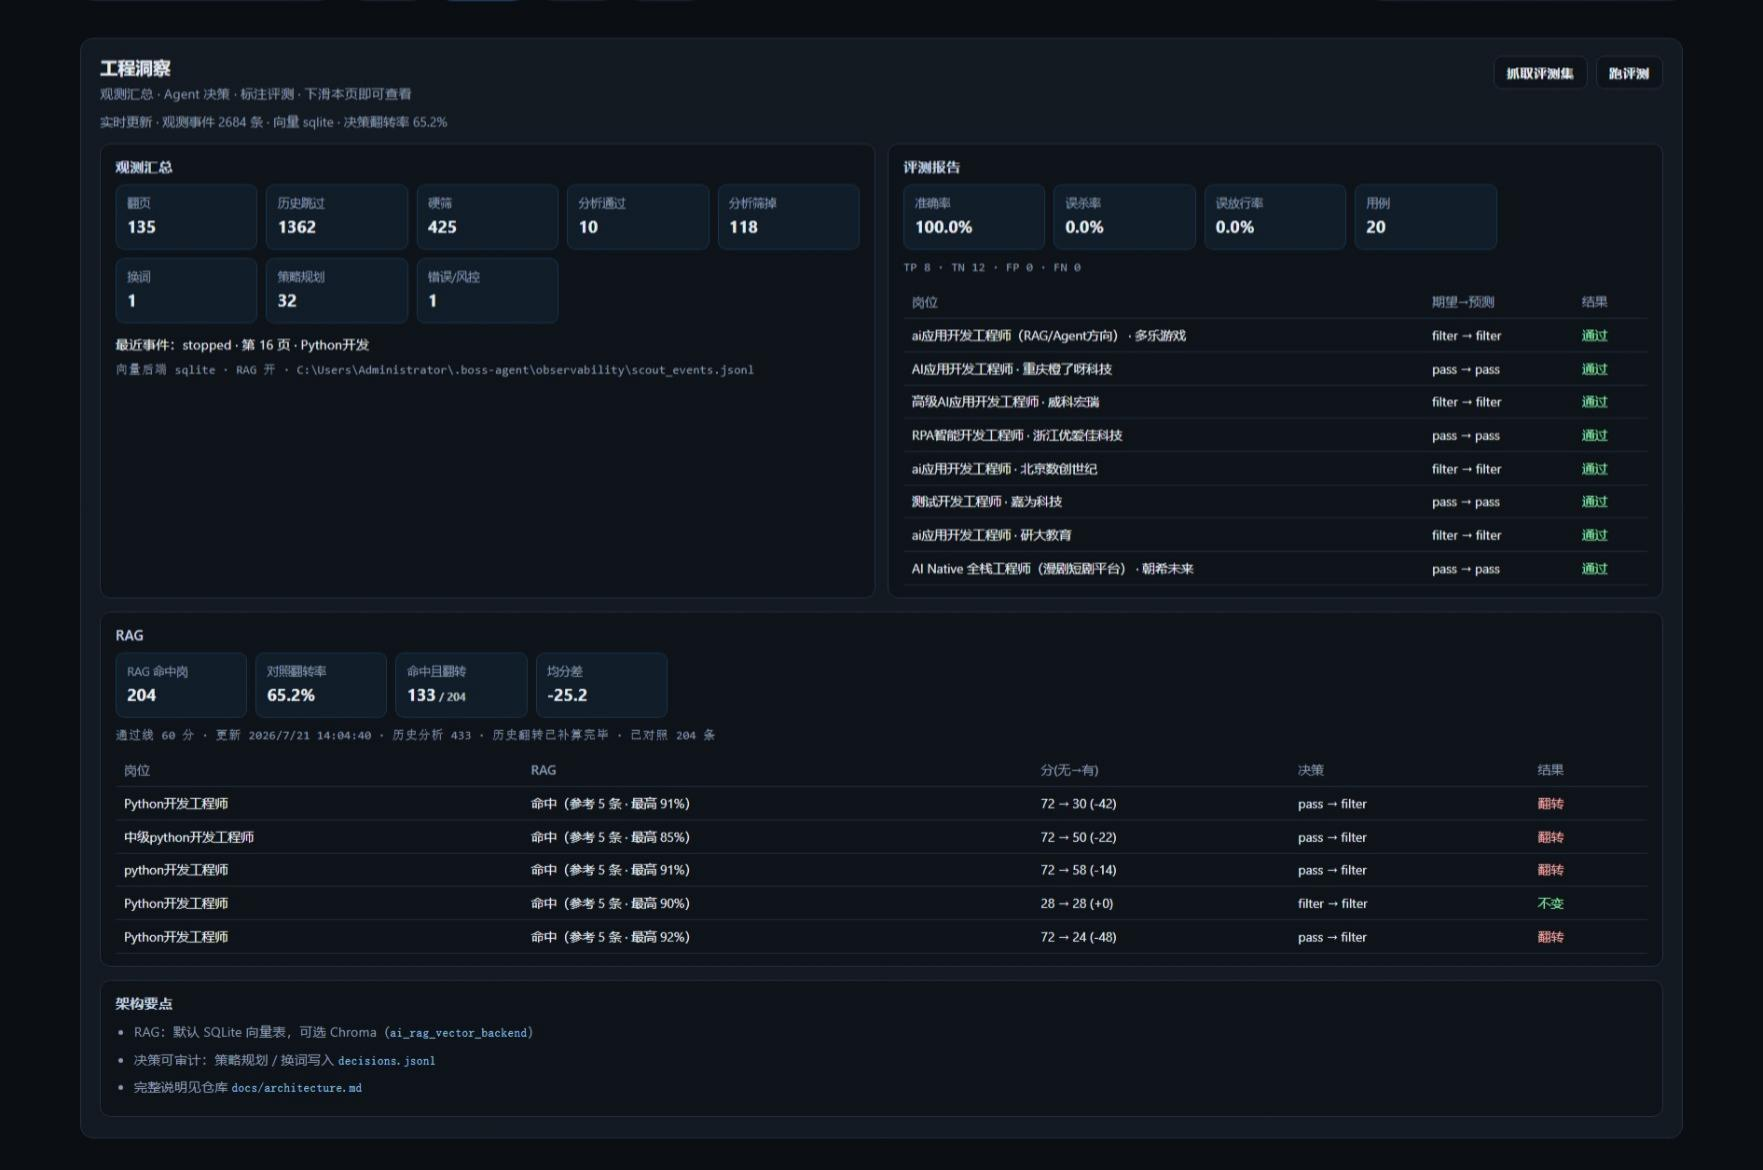
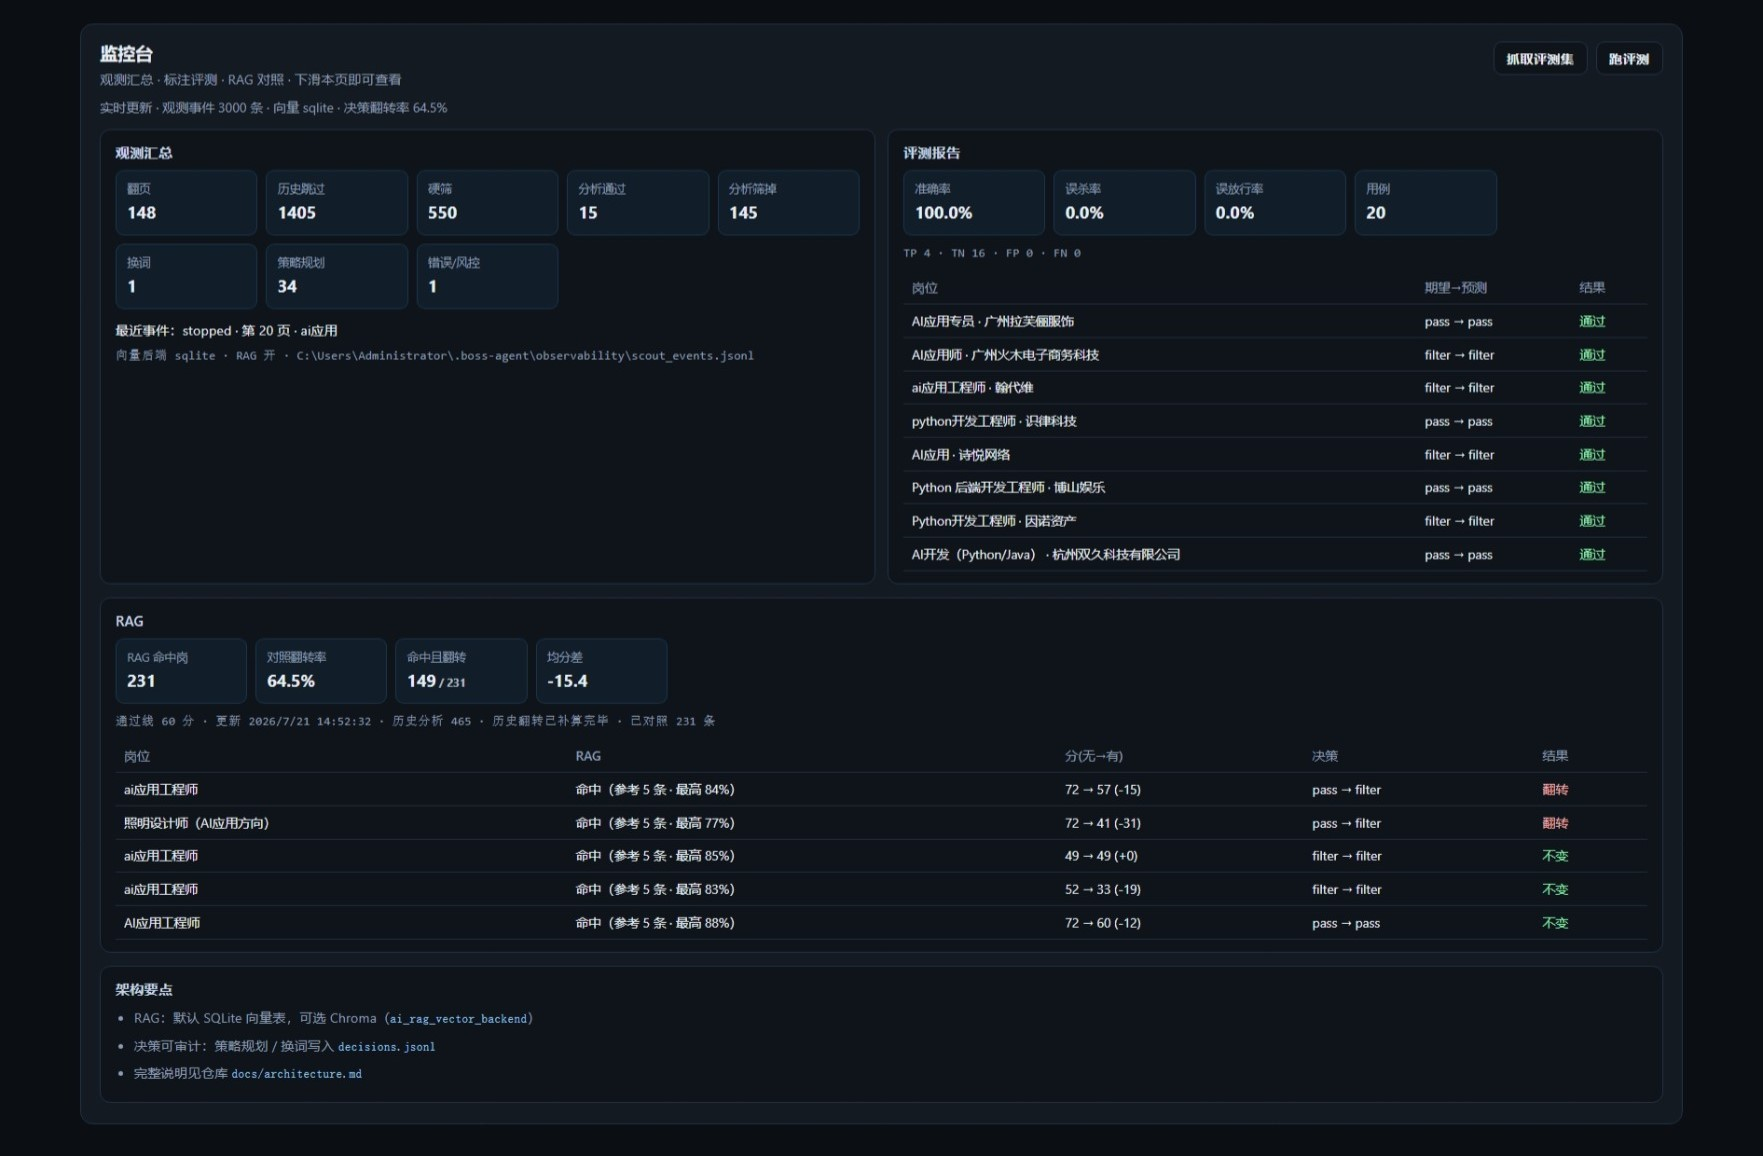
Rename decision monitoring section to monitoring console (监控台).

diff --git a/src/pet_boss/web/static/pet.html b/src/pet_boss/web/static/pet.html
@@ -115,11 +115,11 @@
       </aside>
     </div>
 
-    <section class="pet-insights" id="petInsights" aria-label="决策监控">
+    <section class="pet-insights" id="petInsights" aria-label="监控台">
       <div class="pet-insights-inner">
         <header class="pet-insights-head">
           <div>
-            <h2 class="pet-insights-title">决策监控</h2>
+            <h2 class="pet-insights-title">监控台</h2>
             <p class="pet-insights-sub">观测汇总 · 标注评测 · RAG 对照 · 下滑本页即可查看</p>
           </div>
           <div class="pet-insights-actions">

diff --git a/src/pet_boss/web/static/pet.js b/src/pet_boss/web/static/pet.js
@@ -8138,7 +8138,7 @@ async function refreshPetInsights({ runEval = false, quiet = false } = {}) {
   const evalCard = document.getElementById("petInsightsEvalCard");
   if (runEval && evalBtn) evalBtn.disabled = true;
   if (statusEl && (!quiet || runEval)) {
-    statusEl.textContent = runEval ? "正在跑评测…" : "加载决策监控…";
+    statusEl.textContent = runEval ? "正在跑评测…" : "加载监控台…";
   }
   const run = (async () => {
     try {
@@ -8154,7 +8154,7 @@ async function refreshPetInsights({ runEval = false, quiet = false } = {}) {
         `/api/boss/insights?eval=${runEval ? "0" : "1"}&t=${Date.now()}`,
         { cache: "no-store" },
       );
-      const data = await parsePetApiResponse(resp, "无法加载决策监控");
+      const data = await parsePetApiResponse(resp, "无法加载监控台");
       renderInsightsMetrics(data);
       if (!runEval && data.eval) renderInsightsEval(data.eval);
       renderInsightsRagAblation(data.rag_ablation);

diff --git a/src/pet_boss/eval/runner.py b/src/pet_boss/eval/runner.py
@@ -37,7 +37,7 @@ def run_eval_report(path: Path) -> dict[str, Any]:
 	p = Path(path)
 	if not p.exists():
 		raise FileNotFoundError(
-			f"标注集不存在: {p}\n请先在决策监控点「抓取评测集」，或执行 boss eval --capture"
+			f"标注集不存在: {p}\n请先在监控台点「抓取评测集」，或执行 boss eval --capture"
 		)
 	bundle = load_label_cases(p)
 	pass_score = float(bundle.get("pass_score") or 60)

diff --git a/README.md b/README.md
@@ -13,11 +13,6 @@
 
 ## 演示
 
-
-### 决策监控
-
-![决策监控](docs/media/demo-insights.png)
-
 ### 登录
 
 ![登录演示](docs/media/demo-login.gif)
@@ -35,6 +30,11 @@
 ![RAG 演示](docs/media/demo-reject.gif)
 
 
+### 监控台
+
+![监控台](docs/media/demo-insights.png)
+
+
 ---
 
 ## 项目概览
@@ -50,7 +50,7 @@
 | **分析 AI** | 对候选岗打分（可参考向量 RAG）；通过分可调；结果进岗位栏与资料柜 |
 | **监控 AI** | BOSS 登录 / Token；浏览器异常时可重启自动化窗口 |
 | **秘书 AI** | 简历解析、画像、日报 / 精选、邮箱 |
-| **决策监控** | 页底观测汇总 / 评测 / RAG ；可抓取评测集 |
+| **监控台** | 页底观测汇总 / 评测 / RAG ；可抓取评测集 |
 | **工作时间表** | 按时段自动开搜 / 下班暂停 |
 | **CLI** | 登录、状态、城市、自检、观测、评测等，与 Web 共用登录态 |
 
@@ -115,7 +115,7 @@ boss profile web
 3. **侦察 AI**：选省 → 市（→ 区），保存筛选条件  
 4. 顶部栏：**开始搜岗**（或等待工作时段自动启动）  
 5. 右侧栏查看 **分析通过** 的岗位；资料柜可回看历史通过 / 精选 / 候选池  
-6. 页面向下滚到 **决策监控**：观测汇总、抓取/跑评测、RAG   
+6. 页面向下滚到 **监控台**：观测汇总、抓取/跑评测、RAG   
 
 改完 `pet.js` / `pet.css` 后刷新即可（`/pet` 按文件 mtime 自动带 `?v=`）。
 

diff --git a/docs/dev-log.md b/docs/dev-log.md
@@ -8,17 +8,21 @@
 
 # 2026-07-21
 
+## 决策监控改名为监控台
+- **类型**：改动
+- **改动**：宠物页页底区块、README、文档与规则等对外文案统一为「监控台」
+
 ## 工程洞察改名为决策监控
 - **类型**：改动
 - **改动**：宠物页页底区块标题与加载文案、README 演示区、架构/开发记录/规则、评测缺集提示，统一显示为「决策监控」（接口路径 `insights` 未改）
 
-## 决策监控 / RAG 检索增强 / 评测抓取 / 文档同步
+## 监控台 / RAG 检索增强 / 评测抓取 / 文档同步
 - **类型**：功能 / 改动 / 文档
 - **新增**：
-  - 决策监控：观测汇总、抓取/跑评测、RAG 有无对照（实时增量 + 历史翻转补算）
+  - 监控台：观测汇总、抓取/跑评测、RAG 有无对照（实时增量 + 历史翻转补算）
   - `boss eval --capture` / `POST /api/boss/eval/capture` → `eval_today.json`
   - RAG：`ai_rag_min_score` 阈值；默认 top 5，低相似或过线不足时扩到 8
-  - README 演示「决策监控」截图位；`docs/architecture.md`
+  - README 演示「监控台」截图位；`docs/architecture.md`
 - **改动**：去掉页内「最近决策」列表与秘书小红书/vlog；删除内置 sample 标注样例，评测默认今日集
 - **改动（文档）**：README 能力一览 / CLI / 上手步骤；架构说明与检索参数对齐现状
 
@@ -29,7 +33,7 @@
   - `observability/` 搜岗事件 JSONL + `boss metrics`
   - `agents/decision_log.py` 策略/换词决策落盘
   - RAG 后端抽象（默认 sqlite，可选 chroma，`pip install -e ".[rag]"`）
-  - `boss eval` + 宠物页决策监控 + `/api/boss/insights` / `/api/boss/eval`
+  - `boss eval` + 宠物页监控台 + `/api/boss/insights` / `/api/boss/eval`
   - RAG 消融对比：`POST /api/boss/rag-ablation`、`boss eval --rag-ablation`
 - **改动**：搜岗管道事件写入观测日志；配置项 `ai_rag_vector_backend`；分析打分支持 `enable_rag` 消融
 

diff --git a/docs/architecture.md b/docs/architecture.md
@@ -82,7 +82,7 @@ boss eval --labels <path>        # 指定其它标注集
 boss doctor           # 环境自检
 ```
 
-Web：宠物页办公室场景**下方**有「决策监控」区块（下滚可见），展示观测汇总 / 评测 / **RAG 决策对比**；接口 `GET /api/boss/insights`、`POST /api/boss/eval`、`POST /api/boss/eval/capture`、`POST /api/boss/rag-ablation`。策略/换词决策仍写入 `decisions.jsonl`（不在页内列表展示）。
+Web：宠物页办公室场景**下方**有「监控台」区块（下滚可见），展示观测汇总 / 评测 / **RAG 决策对比**；接口 `GET /api/boss/insights`、`POST /api/boss/eval`、`POST /api/boss/eval/capture`、`POST /api/boss/rag-ablation`。策略/换词决策仍写入 `decisions.jsonl`（不在页内列表展示）。
 
 ```bash
 boss eval --rag-ablation --limit 5   # 有/无 RAG 对照打分（耗 Token）

diff --git a/docs/media/README.md b/docs/media/README.md
@@ -4,6 +4,6 @@
 |------|------|
 | `demo-*.gif` | README 内嵌演示（GitHub 可直接播放） |
 | `demo-*.mp4` | 源视频（本地录制 / 再导出 GIF 用） |
-| `demo-insights.png` | README「决策监控」截图（自行放入） |
+| `demo-insights.png` | README「监控台」截图（自行放入） |
 
 录制建议：宽 ≥ 1280px，导出 **H.264 MP4**；README 展示用 **1280 宽、12fps** 调色板 GIF。